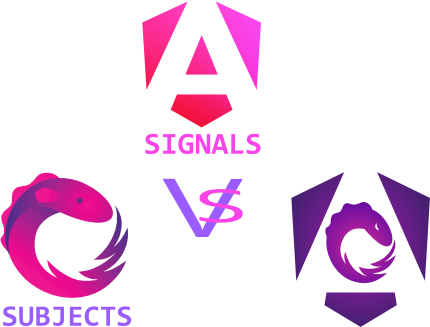
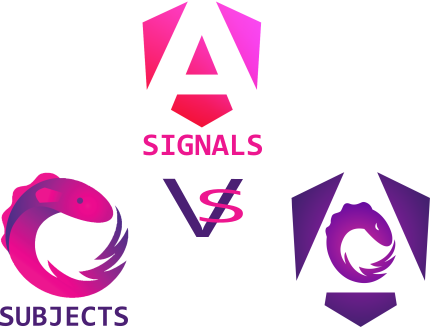
change colors

diff --git a/src/styles.scss b/src/styles.scss
@@ -4,7 +4,7 @@ $blue: #0d6efd;
 $indigo: #6610f2;
 $purple: #6f42c1;
 $pink: #d63384;
-$red: #ff3838;
+$red: #dc3545;
 $orange: #fd7e14;
 $yellow: #ffc107;
 $green: #198754;
@@ -22,11 +22,11 @@ $gray-800: #343a40;
 $gray-900: #212529;
 $black: #000;
 
-$primary: #fa44e8ff;
-$secondary: #9b5cff;
-$success: #8be480;
+$primary: #ed168fff;
+$secondary: #4b2074ff;
+$success: $green;
 $info: $cyan;
-$warning: $yellow;
+$warning: $orange;
 $danger: $red;
 $light: #ffd6fa;
 $dark: #1a1a1a;
@@ -46,7 +46,7 @@ $theme-colors: (
 @import '../node_modules/bootstrap/scss/bootstrap.scss';
 
 body {
-  background-color: var(--bs-dark);
+  //background-color: var(--bs-dark);
   font-family: 'Roboto', serif;
   //font-size: 1.1rem;
   //font-weight: 500;
@@ -68,5 +68,5 @@ th {
 }
 
 td {
-  color: var(--bs-light) !important;
+  color: var(--bs-secondary) !important;
 }

diff --git a/src/app/components/introduction/introduction.component.html b/src/app/components/introduction/introduction.component.html
@@ -1,11 +1,11 @@
 <div class="introduction mt-5">
   <h2 [innerHTML]="'introduction.title' | translate" class="text-primary"></h2>
-  <div [innerHTML]="'introduction.description' | translate" class="text-light"></div>
+  <div [innerHTML]="'introduction.description' | translate" class="text-secondary"></div>
   @for(item of introductionList; track $index){
   <app-item-list
     [title]="'introduction.list.' + item + '.title'"
     [description]="'introduction.list.' + item + '.description'"
   ></app-item-list>
   }
-  <div [innerHTML]="'introduction.conclusion' | translate" class="text-light mt-3"></div>
+  <div [innerHTML]="'introduction.conclusion' | translate" class="text-secondary mt-3"></div>
 </div>

diff --git a/src/app/components/table/table.component.html b/src/app/components/table/table.component.html
@@ -10,8 +10,11 @@
   </thead>
   <tbody>
     @for(row of rows; track $index){
-    <tr>
-      <td [innerHTML]="'table.' + row + '.title' | translate" class="fs-5 text-secondary"></td>
+    <tr class="fw-bold">
+      <td>
+        <i class="bi bi-graph-up-arrow text-secondary"></i>
+        <span [innerHTML]="'table.' + row + '.title' | translate" class="text-primary ms-2"></span>
+      </td>
       <td [innerHTML]="'table.' + row + '.signals' | translate"></td>
       <td [innerHTML]="'table.' + row + '.rxjs' | translate"></td>
       <td [innerHTML]="'table.' + row + '.ngrx' | translate"></td>

diff --git a/src/app/components/item-list/item-list.component.html b/src/app/components/item-list/item-list.component.html
@@ -1,5 +1,5 @@
-<li class="item-list text-decoration-none fw-semibold">
+<li class="item-list text-decoration-none">
   <i class="bi bi-patch-check-fill text-secondary fs-4"></i>
-  <span class="item-list__title fs-5 text-primary ms-2">{{ title | translate }}:</span>
-  <span class="item-list__description text-light ms-2">{{ description | translate }}</span>
+  <span class="item-list__title fs-5 text-primary ms-2 fw-bold">{{ title | translate }}:</span>
+  <span class="item-list__description text-secondary ms-2">{{ description | translate }}</span>
 </li>

diff --git a/src/app/components/header/header.component.html b/src/app/components/header/header.component.html
@@ -1,7 +1,7 @@
 <div class="header text-center p-3">
   <img [src]="img" class="img-fluid" alt="RxJs Vs NgRxJs" />
   <h1 class="text-primary mt-5">
-    SIGNALS <span class="text-secondary">vs</span> SUBJECTS
-    <span class="text-secondary">vs</span> NgRx
+    Signals <span class="text-secondary">Vs</span> Subjects
+    <span class="text-secondary">Vs</span> NgRx
   </h1>
 </div>
